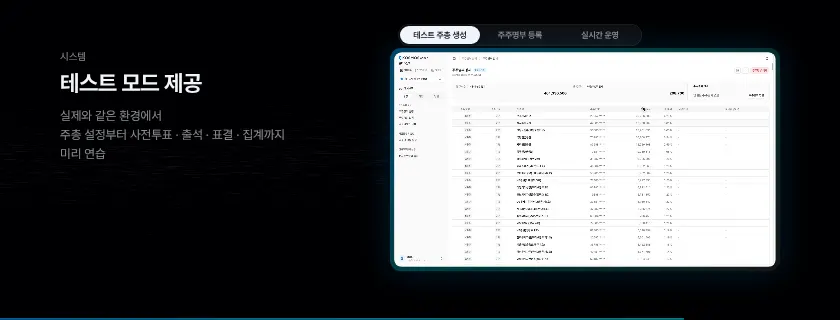
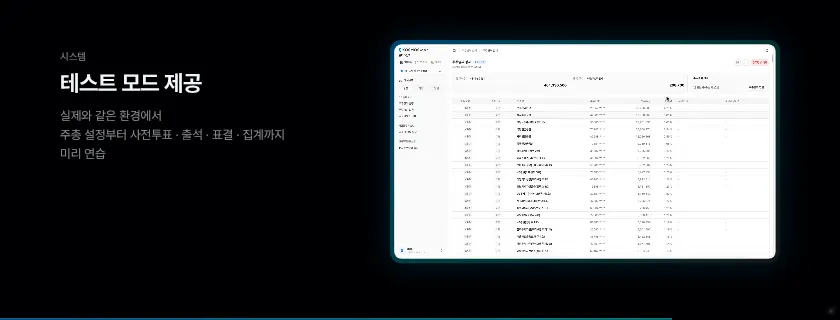
M7-6 세션 4: K28b 테스트 모드 영상 위 탭(테스트 주총 생성 · 주주명부 등록 · 실시간 운영) 삭제 · 영상 창 K25와 같은 높이. K28p 신규(K28b 다음): 서브제목 「자체 기술 개발」 · 제목 「전자주주총회 관련 특허 13건 출원」 · 회색 「현장 출석 · 표결부터 온라인 참여와 집중투표까지」, 4분야 요약(현장 출석 3 · 현장 표결 8 · 온라인 참여 1 · 집중투표 1) + 특허 13건 전체 목록(번호 · 분야 · 발명의 명칭 · 출원번호, 2열)
Claude-Session: https://claude.ai/code/session_01Mn7Nn16wk2DQC1WBM1amqJ

diff --git a/sw.js b/sw.js
@@ -1,6 +1,6 @@
 /* 오프라인 캐시 — 온라인 주소(https)로 한 번 열면 모든 파일을 저장해 두고, 통신이 끊겨도 저장본으로 동작합니다. */
-const V='seminar-screen-11262220';
-const FILES=["./","assets/KakaoBigSans-Bold.woff2","assets/KakaoBigSans-Regular.woff2","assets/KakaoSmallSans-Bold.woff2","assets/KakaoSmallSans-Light.woff2","assets/KakaoSmallSans-Regular.woff2","assets/OrbitControls.js","assets/PretendardVariable.woff2","assets/attendees.js","assets/blue-bloom.html","assets/cong1.webp","assets/cong2.webp","assets/ds-bg.html","assets/four-states.html","assets/intro.mp4","assets/irk-white.svg","assets/irk-wordmark-white.svg","assets/kism-intro.mp4","assets/kism-white.svg","assets/ksmp-white.svg","assets/panel.js","assets/qa-online.js","assets/s2/img1.png","assets/s2/img2.png","assets/s2/img3.png","assets/s2/img4.png","assets/s4/aws.webp","assets/s4/callcenter.webp","assets/s4/chair-1.webp","assets/s4/chair-2.webp","assets/s4/chair-3.webp","assets/s4/conexus-word.webp","assets/s4/ctl-1.webp","assets/s4/cx-1.webp","assets/s4/cx-2.webp","assets/s4/cx-3.webp","assets/s4/cx-flow.mp4","assets/s4/cx-pop1.webp","assets/s4/cx-pop2.webp","assets/s4/cx-vote.mp4","assets/s4/cx-vote.webp","assets/s4/cxs-1.webp","assets/s4/insurance.webp","assets/s4/isms-t.webp","assets/s4/isms.webp","assets/s4/ismsp-t.webp","assets/s4/ismsp.webp","assets/s4/kosmos-white.png","assets/s4/ks-1.webp","assets/s4/ks-2.webp","assets/s4/ks-3.webp","assets/s4/ks-4.webp","assets/s4/ks-5.webp","assets/s4/ks-video.webp","assets/s4/live-1.webp","assets/s4/live-2.webp","assets/s4/live-3.webp","assets/s4/live-4.webp","assets/s4/live-5.webp","assets/s4/live-6.webp","assets/s4/live-7.webp","assets/s4/live-8.webp","assets/s4/logos.webp","assets/s4/ocr-1.webp","assets/s4/ocr-2.webp","assets/s4/ocr-3.webp","assets/s4/ocr-4.webp","assets/s4/ocr-5.webp","assets/s4/on-1.png","assets/s4/on-2.webp","assets/s4/on-3.webp","assets/s4/on-4.png","assets/s4/on-5.webp","assets/s4/onboard-1.webp","assets/s4/onboard-2.webp","assets/s4/privacy.webp","assets/s4/proxymity.svg","assets/s4/rehearsal.webp","assets/s4/streaming-korea.webp","assets/s4/tab-1.webp","assets/s4/tab-2.webp","assets/s4/team.webp","assets/sched.js","assets/screen-title-2.svg","assets/screen-title-b-text.svg","assets/screen-title-b.svg","assets/seat-banners.js","assets/seat-fascia.js","assets/seat-screen.js","assets/seatmap.js","assets/service-intro.mp4","assets/speaker-scott.webp","assets/speaker1-1.webp","assets/speaker2.webp","assets/speaker3-1.webp","assets/supabase.min.js","assets/three.min.js","assets/title-logos.svg","control.html","index-fs.html","index.html","kism.html","lobby/cuts.html","lobby/index.html","mc.html","session2.html","session4.html","sw.js","tools/s2_build.py","tools/s2_shell.html","assets/s3/p01.webp","assets/s3/p02.webp","assets/s3/p03.webp","assets/s3/p04.webp","assets/s3/p05.webp","assets/s3/p06.webp","assets/s3/p07.webp","assets/s3/p08.webp","assets/s3/p09.webp","assets/s3/p10.webp","assets/s3/p11.webp","assets/s3/p12.webp","assets/s3/p13.webp","assets/s3/p14.webp","assets/s3/p15.webp","assets/s3/p16.webp","assets/s3/p17.webp","assets/s3/p18.webp","assets/s3/p19.webp","assets/s3/p20.webp","assets/s3/p21.webp","assets/s3/p22.webp","assets/s3/p23.webp","assets/kism/photo-main.webp","assets/kism/photo-2.webp","assets/kism/photo-3.webp","assets/kism/photo-4.webp","assets/sound/countdown-tick.mp3","assets/sound/sfx-s3-part.mp3","assets/sound/sfx-s4-reveal.mp3","assets/sound/sfx-s5-proxymity.mp3","assets/sound/sfx-s6-chime.mp3","assets/sound/sfx-s7-close.mp3","assets/sound/opening-hit.mp3","assets/s4/kosmos-color.svg","assets/s4/ke-logo.png","assets/s4/ke-live.mp4","assets/kism/kwon-talk.mp4","assets/kism/manual-book.webp","kism-open.html","kism_16x9.html","led.html","assets/s4/cx-ops.mp4","assets/s4/cx-ops.webp","assets/s4/agent-app.mp4","assets/s4/kosmos-web.webp","assets/s4/ks-attend.mp4","assets/s4/ks-attend.webp","assets/s4/ks-switch.mp4","assets/s4/ks-switch.webp","assets/s4/ks-notify.mp4","assets/s4/ks-notify.webp","assets/s4/ks-vote.mp4","assets/s4/ks-vote.webp","assets/s4/ks-qna.mp4","assets/s4/ks-qna.webp","assets/s4/pc-map.webp","assets/s4/pc-map.mp4","assets/s4/agent-app.webp","assets/s4/k24b-bg.webp","session0.html","face.html","assets/face-link.js","assets/kism/photo-main-cut.webp","assets/s4/cx-chair.mp4","assets/s4/cx-chair.webp","assets/s4/cx-test.mp4","assets/s4/cx-test.webp","assets/s4/onboard-mgr.webp","assets/s4/proxymity-logo.png","assets/s4/k21-bg.webp","assets/s4/kosmos-admin-white.svg","assets/kism-intro-16x9.mp4","assets/seat-guide.html","assets/s4/app-icon-agent.svg","assets/ds-main.mp4","assets/s4/k2-agency.webp","assets/s4/k2-support.webp","assets/s4/thumbs/K00.webp","assets/s4/thumbs/K01.webp","assets/s4/thumbs/K02.webp","assets/s4/thumbs/K03.webp","assets/s4/thumbs/K04.webp","assets/s4/thumbs/K05.webp","assets/s4/thumbs/K06.webp","assets/s4/thumbs/K07.webp","assets/s4/thumbs/K08.webp","assets/s4/thumbs/K09.webp","assets/s4/thumbs/K10.webp","assets/s4/thumbs/K11.webp","assets/s4/thumbs/K12.webp","assets/s4/thumbs/K13.webp","assets/s4/thumbs/K14.webp","assets/s4/thumbs/K15.webp","assets/s4/thumbs/K16.webp","assets/s4/thumbs/K17.webp","assets/s4/thumbs/K18a.webp","assets/s4/thumbs/K18b.webp","assets/s4/thumbs/K18c.webp","assets/s4/thumbs/K19.webp","assets/s4/thumbs/K19b.webp","assets/s4/thumbs/K19c.webp","assets/s4/thumbs/K20.webp","assets/s4/thumbs/K21.webp","assets/s4/thumbs/K21b.webp","assets/s4/thumbs/K22s.webp","assets/s4/thumbs/K23.webp","assets/s4/thumbs/K23b.webp","assets/s4/thumbs/K24a.webp","assets/s4/thumbs/K24b.webp","assets/s4/thumbs/K24c.webp","assets/s4/thumbs/K25.webp","assets/s4/thumbs/K25b.webp","assets/s4/thumbs/K26.webp","assets/s4/thumbs/K27.webp","assets/s4/thumbs/K28a.webp","assets/s4/thumbs/K28b.webp","assets/s4/thumbs/K28c.webp","assets/s4/thumbs/K28d.webp","assets/s4/thumbs/K29.webp","assets/s4/thumbs/K30.webp","assets/s4/thumbs/K09b.webp","assets/s4/thumbs/K28e.webp","assets/s4/onsite-vote.mp4","assets/s4/onsite-vote.webp"];
+const V='seminar-screen-11262235';
+const FILES=["./","assets/KakaoBigSans-Bold.woff2","assets/KakaoBigSans-Regular.woff2","assets/KakaoSmallSans-Bold.woff2","assets/KakaoSmallSans-Light.woff2","assets/KakaoSmallSans-Regular.woff2","assets/OrbitControls.js","assets/PretendardVariable.woff2","assets/attendees.js","assets/blue-bloom.html","assets/cong1.webp","assets/cong2.webp","assets/ds-bg.html","assets/four-states.html","assets/intro.mp4","assets/irk-white.svg","assets/irk-wordmark-white.svg","assets/kism-intro.mp4","assets/kism-white.svg","assets/ksmp-white.svg","assets/panel.js","assets/qa-online.js","assets/s2/img1.png","assets/s2/img2.png","assets/s2/img3.png","assets/s2/img4.png","assets/s4/aws.webp","assets/s4/callcenter.webp","assets/s4/chair-1.webp","assets/s4/chair-2.webp","assets/s4/chair-3.webp","assets/s4/conexus-word.webp","assets/s4/ctl-1.webp","assets/s4/cx-1.webp","assets/s4/cx-2.webp","assets/s4/cx-3.webp","assets/s4/cx-flow.mp4","assets/s4/cx-pop1.webp","assets/s4/cx-pop2.webp","assets/s4/cx-vote.mp4","assets/s4/cx-vote.webp","assets/s4/cxs-1.webp","assets/s4/insurance.webp","assets/s4/isms-t.webp","assets/s4/isms.webp","assets/s4/ismsp-t.webp","assets/s4/ismsp.webp","assets/s4/kosmos-white.png","assets/s4/ks-1.webp","assets/s4/ks-2.webp","assets/s4/ks-3.webp","assets/s4/ks-4.webp","assets/s4/ks-5.webp","assets/s4/ks-video.webp","assets/s4/live-1.webp","assets/s4/live-2.webp","assets/s4/live-3.webp","assets/s4/live-4.webp","assets/s4/live-5.webp","assets/s4/live-6.webp","assets/s4/live-7.webp","assets/s4/live-8.webp","assets/s4/logos.webp","assets/s4/ocr-1.webp","assets/s4/ocr-2.webp","assets/s4/ocr-3.webp","assets/s4/ocr-4.webp","assets/s4/ocr-5.webp","assets/s4/on-1.png","assets/s4/on-2.webp","assets/s4/on-3.webp","assets/s4/on-4.png","assets/s4/on-5.webp","assets/s4/onboard-1.webp","assets/s4/onboard-2.webp","assets/s4/privacy.webp","assets/s4/proxymity.svg","assets/s4/rehearsal.webp","assets/s4/streaming-korea.webp","assets/s4/tab-1.webp","assets/s4/tab-2.webp","assets/s4/team.webp","assets/sched.js","assets/screen-title-2.svg","assets/screen-title-b-text.svg","assets/screen-title-b.svg","assets/seat-banners.js","assets/seat-fascia.js","assets/seat-screen.js","assets/seatmap.js","assets/service-intro.mp4","assets/speaker-scott.webp","assets/speaker1-1.webp","assets/speaker2.webp","assets/speaker3-1.webp","assets/supabase.min.js","assets/three.min.js","assets/title-logos.svg","control.html","index-fs.html","index.html","kism.html","lobby/cuts.html","lobby/index.html","mc.html","session2.html","session4.html","sw.js","tools/s2_build.py","tools/s2_shell.html","assets/s3/p01.webp","assets/s3/p02.webp","assets/s3/p03.webp","assets/s3/p04.webp","assets/s3/p05.webp","assets/s3/p06.webp","assets/s3/p07.webp","assets/s3/p08.webp","assets/s3/p09.webp","assets/s3/p10.webp","assets/s3/p11.webp","assets/s3/p12.webp","assets/s3/p13.webp","assets/s3/p14.webp","assets/s3/p15.webp","assets/s3/p16.webp","assets/s3/p17.webp","assets/s3/p18.webp","assets/s3/p19.webp","assets/s3/p20.webp","assets/s3/p21.webp","assets/s3/p22.webp","assets/s3/p23.webp","assets/kism/photo-main.webp","assets/kism/photo-2.webp","assets/kism/photo-3.webp","assets/kism/photo-4.webp","assets/sound/countdown-tick.mp3","assets/sound/sfx-s3-part.mp3","assets/sound/sfx-s4-reveal.mp3","assets/sound/sfx-s5-proxymity.mp3","assets/sound/sfx-s6-chime.mp3","assets/sound/sfx-s7-close.mp3","assets/sound/opening-hit.mp3","assets/s4/kosmos-color.svg","assets/s4/ke-logo.png","assets/s4/ke-live.mp4","assets/kism/kwon-talk.mp4","assets/kism/manual-book.webp","kism-open.html","kism_16x9.html","led.html","assets/s4/cx-ops.mp4","assets/s4/cx-ops.webp","assets/s4/agent-app.mp4","assets/s4/kosmos-web.webp","assets/s4/ks-attend.mp4","assets/s4/ks-attend.webp","assets/s4/ks-switch.mp4","assets/s4/ks-switch.webp","assets/s4/ks-notify.mp4","assets/s4/ks-notify.webp","assets/s4/ks-vote.mp4","assets/s4/ks-vote.webp","assets/s4/ks-qna.mp4","assets/s4/ks-qna.webp","assets/s4/pc-map.webp","assets/s4/pc-map.mp4","assets/s4/agent-app.webp","assets/s4/k24b-bg.webp","session0.html","face.html","assets/face-link.js","assets/kism/photo-main-cut.webp","assets/s4/cx-chair.mp4","assets/s4/cx-chair.webp","assets/s4/cx-test.mp4","assets/s4/cx-test.webp","assets/s4/onboard-mgr.webp","assets/s4/proxymity-logo.png","assets/s4/k21-bg.webp","assets/s4/kosmos-admin-white.svg","assets/kism-intro-16x9.mp4","assets/seat-guide.html","assets/s4/app-icon-agent.svg","assets/ds-main.mp4","assets/s4/k2-agency.webp","assets/s4/k2-support.webp","assets/s4/thumbs/K00.webp","assets/s4/thumbs/K01.webp","assets/s4/thumbs/K02.webp","assets/s4/thumbs/K03.webp","assets/s4/thumbs/K04.webp","assets/s4/thumbs/K05.webp","assets/s4/thumbs/K06.webp","assets/s4/thumbs/K07.webp","assets/s4/thumbs/K08.webp","assets/s4/thumbs/K09.webp","assets/s4/thumbs/K10.webp","assets/s4/thumbs/K11.webp","assets/s4/thumbs/K12.webp","assets/s4/thumbs/K13.webp","assets/s4/thumbs/K14.webp","assets/s4/thumbs/K15.webp","assets/s4/thumbs/K16.webp","assets/s4/thumbs/K17.webp","assets/s4/thumbs/K18a.webp","assets/s4/thumbs/K18b.webp","assets/s4/thumbs/K18c.webp","assets/s4/thumbs/K19.webp","assets/s4/thumbs/K19b.webp","assets/s4/thumbs/K19c.webp","assets/s4/thumbs/K20.webp","assets/s4/thumbs/K21.webp","assets/s4/thumbs/K21b.webp","assets/s4/thumbs/K22s.webp","assets/s4/thumbs/K23.webp","assets/s4/thumbs/K23b.webp","assets/s4/thumbs/K24a.webp","assets/s4/thumbs/K24b.webp","assets/s4/thumbs/K24c.webp","assets/s4/thumbs/K25.webp","assets/s4/thumbs/K25b.webp","assets/s4/thumbs/K26.webp","assets/s4/thumbs/K27.webp","assets/s4/thumbs/K28a.webp","assets/s4/thumbs/K28b.webp","assets/s4/thumbs/K28c.webp","assets/s4/thumbs/K28d.webp","assets/s4/thumbs/K29.webp","assets/s4/thumbs/K30.webp","assets/s4/thumbs/K09b.webp","assets/s4/thumbs/K28e.webp","assets/s4/thumbs/K28p.webp","assets/s4/onsite-vote.mp4","assets/s4/onsite-vote.webp"];
 self.addEventListener('install',e=>{e.waitUntil(caches.open(V).then(c=>c.addAll(FILES)).then(()=>self.skipWaiting()));});
 self.addEventListener('activate',e=>{e.waitUntil(caches.keys().then(ks=>Promise.all(ks.filter(k=>k!==V).map(k=>caches.delete(k)))).then(()=>self.clients.claim()));});
 async function rangeFrom(res,range){const buf=await res.arrayBuffer(),m=/bytes=(\d*)-(\d*)/.exec(range)||[],s=m[1]?+m[1]:0,end=m[2]?+m[2]:buf.byteLength-1;

diff --git a/index.html b/index.html
@@ -740,7 +740,7 @@ body.idle{cursor:none}
 <div class="cg sp"><p class="cg-e fu" style="--i:0">Session 4.</p><div class="cg-b"><h2 class="sp-t" data-words style="--i:1">전자주주총회 도입 · 운영 방안 및<br>통합 솔루션 소개</h2><p class="sp-n ko fu" style="--i:2">박성용</p><p class="sp-r fu" style="--i:3">IR큐더스, 본부장</p></div></div>
 </section>
 <section class="slide" id="m7_6" data-no="M7-6" data-title="M7-6 Session 4 발표 키노트 (session4.html · 21:8 전면)" data-bg="B" data-foot="none" data-kn="1" data-dim=".42" data-tr="blur">
-<iframe class="kn" data-src="session4.html?embed=1&v=11262100" tabindex="-1" title="Session 4 키노트" aria-hidden="true"></iframe>
+<iframe class="kn" data-src="session4.html?embed=1&v=11262235" tabindex="-1" title="Session 4 키노트" aria-hidden="true"></iframe>
 </section>
 <section class="slide" id="m8_1" data-no="M8-1" data-title="M8-1 휴식 · 재개 타이머" data-bg="B" data-foot="full" data-break="brk2">
 <div class="bk">
